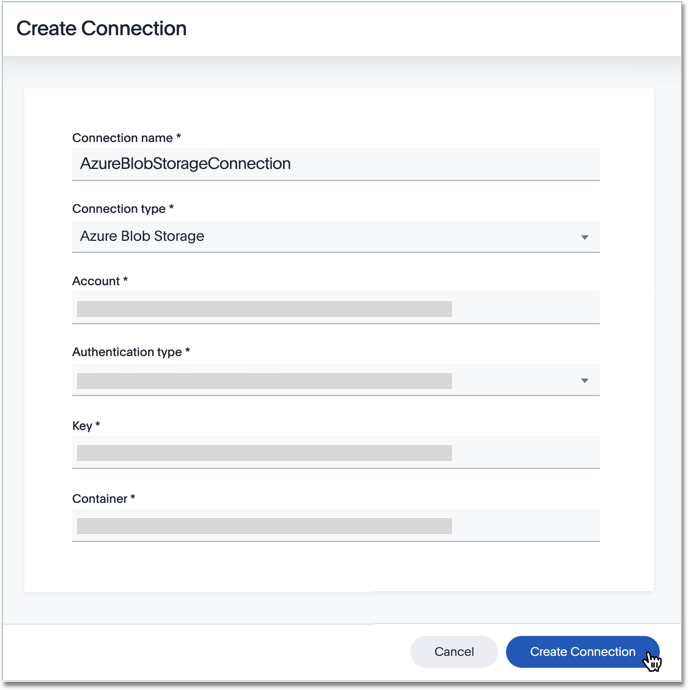
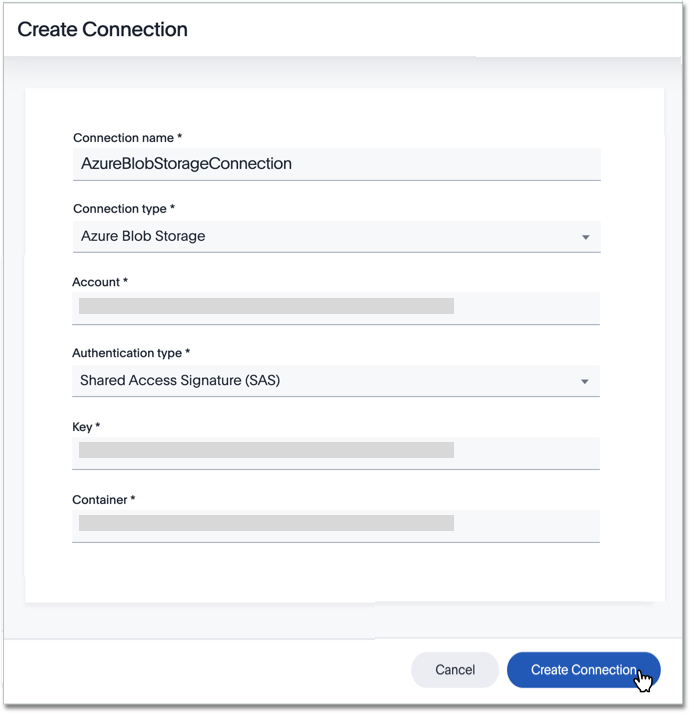
SCAL-63336 Add DataFlow Azure Blob Storage documentation: a create connection image, and 4 articles

diff --git a/_data-integrate/dataflow/dataflow-azure-blob-storage-reference.md b/_data-integrate/dataflow/dataflow-azure-blob-storage-reference.md
@@ -1,0 +1,39 @@
+---
+title: [Azure Blob Storage connection reference]
+summary: Learn about the fields used to create an Azure Blob Storage connection with ThoughtSpot DataFlow.
+last_updated: 06/19/2020
+sidebar: mydoc_sidebar
+permalink: /:collection/:path.html
+---
+
+Here is a list of the fields for an Amazon S3 connection in ThoughtSpot DataFlow. You need specific information to establish a seamless and secure connection.
+
+## Connection properties
+
+<dl id="dataflow-azure-blob-storage-connection-properties">
+<dlentry id="dataflow-azure-blob-storage-conn-connection-name"><dt>Connection name</dt><dd id="connection-name-description">Name your connection.</dd><dd id="connection-name-required">Mandatory field.</dd><dd id="connection-name-example"><strong>Example:</strong><br/>AzureBlobAStorageConnection</dd></dlentry>
+<dlentry id="dataflow-azure-blob-storage-conn-connection-type"><dt>Connection type</dt><dd id="connection-type-description">Choose the Azure Blob Storage connection type.</dd><dd id="connection-type-required">Mandatory field.</dd><dd id="connection-type-example"><strong>Example:</strong><br/>Azure Blob Storage</dd></dlentry>
+<dlentry id="dataflow-azure-blob-storage-conn-account"><dt>Account</dt><dd id="account-description">Azure Storage has an address that includes our unique account name which is a combination of the account name and the Azure Storage blob endpoint forms the base address for the objects in your storage account.</dd><dd id="account-required">Mandatory field.</dd><dd id="account-example"><strong>Example:</strong><br/>userdi</dd></dlentry>
+<dlentry id="dataflow-azure-blob-storage-conn-authentication-type"><dt>Authentication type</dt><dd id="authentication-type-description">This supports two types of authentication methods: Azure account key: Choose to authenticate based on access keys and other parameters to produce an encrypted signature stringthat is passed on the request in the Authorization header.Shared access signatures (SAS): Choose to grant fine-grained access to resources in your storage account with specified permissions and over a specified time interval.</dd><dd id="authentication-type-required">Mandatory field.</dd><dd id="authentication-type-example"><strong>Example:</strong><br/>Azure account key</dd><dd id="authentication-type-valid-values"><strong>Valid Values:</strong><br/>Azure account key
+Shared acess signature</dd></dlentry>
+<dlentry id="dataflow-azure-blob-storage-conn-key"><dt>Key</dt><dd id="key-description">The 512-bit access key generated while creating storage account.</dd><dd id="key-required">Mandatory field.</dd><dd id="key-example"><strong>Example:</strong><br/>ABCDEFGH245HIJK</dd></dlentry>
+<dlentry id="dataflow-azure-blob-storage-conn-container"><dt>Container</dt><dd id="container-description">Give container details that organizes a set of blobs, like a directory in a file system.</dd><dd id="container-required">Mandatory field.</dd><dd id="container-example"><strong>Example:</strong><br/>container</dd></dlentry>
+</dl>
+
+## Sync properties
+<dl id="dataflow-azure-blob-storage-sync-properties">
+<dlentry id="dataflow-azure-blob-storage-sync-file-name"><dt>File name</dt><dd id="file-name-description">Specify name of the file</dd><dd id="file-name-required">Mandatory field.</dd><dd id="file-name-example"><strong>Example:</strong><br/>testfile.csv</dd><dd id="file-name-valid-values"><strong>Valid Values:</strong><br/>Any string literal</dd><dd id="file-name-default"><strong>Default:</strong><br/>The name of the file used to create sync</dd><dd id="file-name-other"><strong>Other notes:</strong><br/>To specify wildcard pattern use '*' character in the file name</dd></dlentry>
+<dlentry id="dataflow-azure-blob-storage-sync-column-delimiter"><dt>Column delimiter</dt><dd id="column-delimiter-description">Specifies the delimiter between the columns in the source file</dd><dd id="column-delimiter-required">Mandatory field.</dd><dd id="column-delimiter-example"><strong>Example:</strong><br/>,</dd><dd id="column-delimiter-valid-values"><strong>Valid Values:</strong><br/>Any printable ASCII character or decimal value for ASCII character</dd><dd id="column-delimiter-default"><strong>Default:</strong><br/>The delimiter specified in sync</dd></dlentry>
+<dlentry id="dataflow-azure-blob-storage-sync-enable-archive-on-success"><dt>Enable archive on success</dt><dd id="enable-archive-on-success-description">Specify if file needs to be archived once it is succeeded</dd><dd id="enable-archive-on-success-required">Optional field.</dd><dd id="enable-archive-on-success-example"><strong>Example:</strong><br/>No</dd><dd id="enable-archive-on-success-valid-values"><strong>Valid Values:</strong><br/>Yes, No</dd><dd id="enable-archive-on-success-default"><strong>Default:</strong><br/>No</dd></dlentry>
+<dlentry id="dataflow-azure-blob-storage-sync-delete-on-success"><dt>Delete on success</dt><dd id="delete-on-success-description">Specify if file needs to be deleted after execution is successful</dd><dd id="delete-on-success-required">Optional field.</dd><dd id="delete-on-success-example"><strong>Example:</strong><br/>No</dd><dd id="delete-on-success-valid-values"><strong>Valid Values:</strong><br/>Yes, No</dd><dd id="delete-on-success-default"><strong>Default:</strong><br/>No</dd></dlentry>
+<dlentry id="dataflow-azure-blob-storage-sync-compression"><dt>Compression</dt><dd id="compression-description">Specify this if the file is compressed and what kind of compressed file it is</dd><dd id="compression-required">Mandatory field.</dd><dd id="compression-example"><strong>Example:</strong><br/>gzip</dd><dd id="compression-valid-values"><strong>Valid Values:</strong><br/>None, gzip</dd><dd id="compression-default"><strong>Default:</strong><br/>None</dd></dlentry>
+<dlentry id="dataflow-azure-blob-storage-sync-enclosing-character"><dt>Enclosing character</dt><dd id="enclosing-character-description">Specify if the text columns in the source data is enclosed in quotes.</dd><dd id="enclosing-character-required">Mandatory field.</dd><dd id="enclosing-character-example"><strong>Example:</strong><br/>Single</dd><dd id="enclosing-character-valid-values"><strong>Valid Values:</strong><br/>Single, Double, Empty</dd><dd id="enclosing-character-default"><strong>Default:</strong><br/>Empty</dd></dlentry>
+<dlentry id="dataflow-azure-blob-storage-sync-escape-character"><dt>Escape character</dt><dd id="escape-character-description">Specify this if the text qualifier is mentioned. This should be the character which escapes the text qualifier character in the source data.</dd><dd id="escape-character-required">Optional field.</dd><dd id="escape-character-example"><strong>Example:</strong><br/>\\ </dd><dd id="escape-character-valid-values"><strong>Valid Values:</strong><br/>Any ASCII character</dd><dd id="escape-character-default"><strong>Default:</strong><br/>Empty</dd></dlentry>
+<dlentry id="dataflow-azure-blob-storage-sync-null-value"><dt>Null value</dt><dd id="null-value-description">Specifies the string literal indicates the null value for a column. During the data load, the column value matching this string will be loaded as null in the target.</dd><dd id="null-value-required">Optional field.</dd><dd id="null-value-example"><strong>Example:</strong><br/>NULL</dd><dd id="null-value-valid-values"><strong>Valid Values:</strong><br/>Any string literal</dd><dd id="null-value-default"><strong>Default:</strong><br/>NULL</dd></dlentry>
+<dlentry id="dataflow-azure-blob-storage-sync-date-style"><dt>Date style</dt><dd id="date-style-description">Specifies how to interpret the date format</dd><dd id="date-style-required">Optional field.</dd><dd id="date-style-example"><strong>Example:</strong><br/>YMD</dd><dd id="date-style-valid-values"><strong>Valid Values:</strong><br/><code>YMD</code>, <code>MDY</code>, <code>DMY</code>, <code>DMONY</code>, <code>MONDY</code>, <code>Y2MD</code>, <code>MDY2</code>, <code>DMY2</code>, <code>DMONY2</code>, and <code>MONDY2</code></dd><dd id="date-style-default"><strong>Default:</strong><br/><code>YMD</code></dd><dd id="date-style-other"><strong>Other notes:</strong><br/><code>MDY</code>: 2-digit month, 2-digit day, 4-digit year<br/><code>DMY</code>: 2-digit month, 2-digit day, 4-digit year<br/><code>DMONY</code>: 2-digit day, 3-character month name, 4-digit year<br/><code>MONDY</code>: 3-character month name, 2-digit day, 4-digit year<br/><code>Y2MD</code>: 2-digit year, 2-digit month, 2-digit day<br/><code>MDY2</code>: 2-digit month, 2-digit day, 2-digit year<br/><code>DMY2</code>: 2-digit day, 2-digit month, 2-digit year<br/><code>DMONY2</code>: 2-digit day, 3-character month name, 2-digit year<br/><code>MONDY2</code>: 3-character month name, 2-digit day, 2-digit year</dd></dlentry>
+<dlentry id="dataflow-azure-blob-storage-sync-date-delimiter"><dt>Date delimiter</dt><dd id="date-delimiter-description">Specifies the separator used in the date format.</dd><dd id="date-delimiter-required">Optional field.</dd><dd id="date-delimiter-example"><strong>Example:</strong><br/>-</dd><dd id="date-delimiter-valid-values"><strong>Valid Values:</strong><br/>Any printable ASCII character</dd><dd id="date-delimiter-default"><strong>Default:</strong><br/>-</dd></dlentry>
+<dlentry id="dataflow-azure-blob-storage-sync-time-style"><dt>Time style</dt><dd id="time-style-description">Specifies the format of the time portion in the data.</dd><dd id="time-style-required">Optional field.</dd><dd id="time-style-example"><strong>Example:</strong><br/>24HOUR</dd><dd id="time-style-valid-values"><strong>Valid Values:</strong><br/>12HOUR, 24 HOUR</dd><dd id="time-style-default"><strong>Default:</strong><br/>24HOUR</dd></dlentry>
+<dlentry id="dataflow-azure-blob-storage-sync-time-delimiter"><dt>Time delimiter</dt><dd id="time-delimiter-description">Specifies the character used as separate the time components.</dd><dd id="time-delimiter-required">Optional field.</dd><dd id="time-delimiter-example"><strong>Example:</strong><br/>:</dd><dd id="time-delimiter-valid-values"><strong>Valid Values:</strong><br/>Any printable ASCII character</dd><dd id="time-delimiter-default"><strong>Default:</strong><br/>:</dd></dlentry>
+<dlentry id="dataflow-azure-blob-storage-sync-skip-trailer-rows"><dt>Skip trailer rows</dt><dd id="skip-trailer-rows-description">Skip the number of trailer rows specified while loading the data</dd><dd id="skip-trailer-rows-required">Optional field.</dd><dd id="skip-trailer-rows-example"><strong>Example:</strong><br/>5</dd><dd id="skip-trailer-rows-valid-values"><strong>Valid Values:</strong><br/>Any numeric value</dd><dd id="skip-trailer-rows-default"><strong>Default:</strong><br/>0</dd></dlentry>
+<dlentry id="dataflow-azure-blob-storage-sync-ts-load-options"><dt>TS load options</dt><dd id="ts-load-options-description">Specifies the parameters passed with the <code>tsload</code> command, in addition to the commands already included by the application. The format for these parameters is:<br/><code> --&lt;param_1_name&gt; &lt;optional_param_1_value&gt;</code><br/><code> --&lt;param_2_name&gt; &lt;optional_param_2_value&gt;</code></dd><dd id="ts-load-options-required">Optional field.</dd><dd id="ts-load-options-example"><strong>Example:</strong><br/>--max_ignored_rows 0</dd><dd id="ts-load-options-valid-values"><strong>Valid Values:</strong><br/><code>  --null_value ""</code><br/><code>  --escape_character ""</code><br/><code>  --max_ignored_rows 0</code></dd><dd id="ts-load-options-default"><strong>Default:</strong><br/>--max_ignored_rows 0</dd></dlentry>
+</dl>

diff --git a/_data-integrate/dataflow/dataflow-azure-blob-storage-sync.md b/_data-integrate/dataflow/dataflow-azure-blob-storage-sync.md
@@ -1,0 +1,36 @@
+---
+title: [Sync data through Azure Blob Storage connection]
+last_updated: 7/7/2020
+toc: true
+sidebar: mydoc_sidebar
+permalink: /:collection/:path.html
+---
+After using ThoughtSpot DataFlow to establish a connection to an Azure Blob Storage file system, you can create automatic data updates, to seamlessly refresh your data.
+
+{% include content/dataflow/sync-for-file-systems.md %}
+
+4. Specify the sync properties for files:
+
+   <details>
+     <summary>See the <strong>Connection-specific sync properties</strong> screen</summary>
+     <p><img src="../../images/dataflow-set-sync-properties-draft.png" alt="Enter sync details" /></p></details>
+
+     * [File name]({{ site.baseurl }}/data-integrate/dataflow/dataflow-azure-blob-storage-reference.html#dataflow-azure-blob-storage-sync-file-name)<br/>Specify name of the file<br/>Mandatory field.
+     * [Column delimiter]({{ site.baseurl }}/data-integrate/dataflow/dataflow-azure-blob-storage-reference.html#dataflow-azure-blob-storage-sync-column-delimiter)<br/>Specifies the delimiter between the columns in the source file<br/>Mandatory field.
+     * [Enable archive on success]({{ site.baseurl }}/data-integrate/dataflow/dataflow-azure-blob-storage-reference.html#dataflow-azure-blob-storage-sync-enable-archive-on-success)<br/>Specify if file needs to be archived once it is succeeded<br/>Optional field.
+     * [Delete on success]({{ site.baseurl }}/data-integrate/dataflow/dataflow-azure-blob-storage-reference.html#dataflow-azure-blob-storage-sync-delete-on-success)<br/>Specify if file needs to be deleted after execution is successful<br/>Optional field.
+     * [Compression]({{ site.baseurl }}/data-integrate/dataflow/dataflow-azure-blob-storage-reference.html#dataflow-azure-blob-storage-sync-compression)<br/>Specify this if the file is compressed and what kind of compressed file it is<br/>Mandatory field.
+     * [Enclosing character]({{ site.baseurl }}/data-integrate/dataflow/dataflow-azure-blob-storage-reference.html#dataflow-azure-blob-storage-sync-enclosing-character)<br/>Specify if the text columns in the source data is enclosed in quotes.<br/>Mandatory field.
+     * [Escape character]({{ site.baseurl }}/data-integrate/dataflow/dataflow-azure-blob-storage-reference.html#dataflow-azure-blob-storage-sync-escape-character)<br/>Specify this if the text qualifier is mentioned. This should be the character which escapes the text qualifier character in the source data.<br/>Optional field.
+     * [Null value]({{ site.baseurl }}/data-integrate/dataflow/dataflow-azure-blob-storage-reference.html#dataflow-azure-blob-storage-sync-null-value)<br/>Specifies the string literal indicates the null value for a column. During the data load, the column value matching this string will be loaded as null in the target.<br/>Optional field.
+     * [Date style]({{ site.baseurl }}/data-integrate/dataflow/dataflow-azure-blob-storage-reference.html#dataflow-azure-blob-storage-sync-date-style)<br/>Specifies how to interpret the date format<br/>Optional field.
+     * [Date delimiter]({{ site.baseurl }}/data-integrate/dataflow/dataflow-azure-blob-storage-reference.html#dataflow-azure-blob-storage-sync-date-delimiter)<br/>Specifies the separator used in the date format.<br/>Optional field.
+     * [Time style]({{ site.baseurl }}/data-integrate/dataflow/dataflow-azure-blob-storage-reference.html#dataflow-azure-blob-storage-sync-time-style)<br/>Specifies the format of the time portion in the data.<br/>Optional field.
+     * [Time delimiter]({{ site.baseurl }}/data-integrate/dataflow/dataflow-azure-blob-storage-reference.html#dataflow-azure-blob-storage-sync-time-delimiter)<br/>Specifies the character used as separate the time components.<br/>Optional field.
+     * [Skip trailer rows]({{ site.baseurl }}/data-integrate/dataflow/dataflow-azure-blob-storage-reference.html#dataflow-azure-blob-storage-sync-skip-trailer-rows)<br/>Skip the number of trailer rows specified while loading the data<br/>Optional field.
+     * [TS load options]({{ site.baseurl }}/data-integrate/dataflow/dataflow-azure-blob-storage-reference.html#dataflow-azure-blob-storage-sync-ts-load-options)<br/>Specifies the parameters passed with the <code>tsload</code> command, in addition to the commands already included by the application. The format for these parameters is:<br/><code> --&lt;param_1_name&gt; &lt;optional_param_1_value&gt;</code><br/><code> --&lt;param_2_name&gt; &lt;optional_param_2_value&gt;</code><br/>Optional field.
+
+5. Save your work by clicking **Save**.<br/>Alternatively, click **Save and sync now** to save your work and sync data at the same time.
+
+
+See [Sync properties]({{ site.baseurl }}/data-integrate/dataflow/dataflow-azure-blob-storage-reference.html#sync-properties).

diff --git a/_data-integrate/dataflow/dataflow-azure-blob-storage-add.md b/_data-integrate/dataflow/dataflow-azure-blob-storage-add.md
@@ -1,0 +1,31 @@
+---
+title: [Add an Azure Blob Storage connection]
+last_updated: 7/7/2020
+toc: true
+sidebar: mydoc_sidebar
+permalink: /:collection/:path.html
+---
+You can add a connection to the Azure Blob Storage file system using ThoughtSpot DataFlow.
+
+Follow these steps:
+
+{% include content/dataflow/add-database-connection.md %}
+
+4. After you select the File **Connection type**, the rest of the connection properties appear.
+
+   <details>
+     <summary>See the <strong>Create connection</strong> screen for Azure Blob Storage</summary>
+     <p>
+      <img src="../../images/dataflow-azure-blob-storage-create.png" alt="Add a connection to Azure Blob Storage" /></p>
+   </details>
+
+   * [Connection name]({{ site.baseurl }}/data-integrate/dataflow/dataflow-azure-blob-storage-reference.html#dataflow-azure-blob-storage-conn-connection-name)<br/>Name your connection.<br/>Mandatory field.
+   * [Connection type]({{ site.baseurl }}/data-integrate/dataflow/dataflow-azure-blob-storage-reference.html#dataflow-azure-blob-storage-conn-connection-type)<br/>Choose the Azure Blob Storage connection type.<br/>Mandatory field.
+   * [Account]({{ site.baseurl }}/data-integrate/dataflow/dataflow-azure-blob-storage-reference.html#dataflow-azure-blob-storage-conn-account)<br/>Azure Storage has an address that includes our unique account name which is a combination of the account name and the Azure Storage blob endpoint forms the base address for the objects in your storage account.<br/>Mandatory field.
+   * [Authentication type]({{ site.baseurl }}/data-integrate/dataflow/dataflow-azure-blob-storage-reference.html#dataflow-azure-blob-storage-conn-authentication-type)<br/>This supports two types of authentication methods: Azure account key: Choose to authenticate based on access keys and other parameters to produce an encrypted signature stringthat is passed on the request in the Authorization header.Shared access signatures (SAS): Choose to grant fine-grained access to resources in your storage account with specified permissions and over a specified time interval.<br/>Mandatory field.
+   * [Key]({{ site.baseurl }}/data-integrate/dataflow/dataflow-azure-blob-storage-reference.html#dataflow-azure-blob-storage-conn-key)<br/>The 512-bit access key generated while creating storage account.<br/>Mandatory field.
+   * [Container]({{ site.baseurl }}/data-integrate/dataflow/dataflow-azure-blob-storage-reference.html#dataflow-azure-blob-storage-conn-container)<br/>Give container details that organizes a set of blobs, like a directory in a file system.<br/>Mandatory field.
+
+   See [Connection properties]({{ site.baseurl }}/data-integrate/dataflow/dataflow-azure-blob-storage-reference.html#connection-properties).
+
+5. Click **Create connection**.   

diff --git a/_data-integrate/dataflow/dataflow-azure-blob-storage.md b/_data-integrate/dataflow/dataflow-azure-blob-storage.md
@@ -1,0 +1,12 @@
+---
+title: [Azure Blob storage connections in DataFlow]
+last_updated: 7/07/2020
+toc: true
+sidebar: mydoc_sidebar
+permalink: /:collection/:path.html
+---
+DataFlow enables you to connect to the Azure Blob Storage filesystem, to use your data in ThoughtSpot.
+
+- [Add a connection]({{ site.baseurl }}/data-integrate/dataflow/dataflow-azure-blob-storage-add.html)
+- [Sync data]({{ site.baseurl }}/data-integrate/dataflow/dataflow-azure-blob-storage-sync.html)
+- [Reference]({{ site.baseurl }}/data-integrate/dataflow/dataflow-azure-blob-storage-reference.html)
